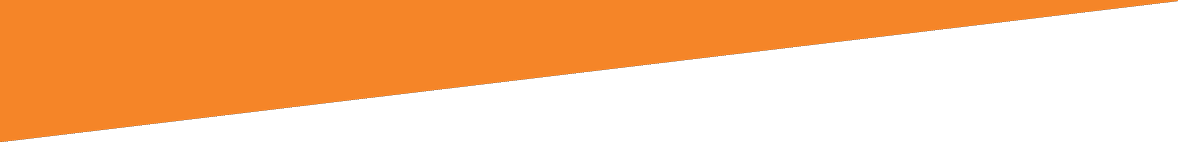
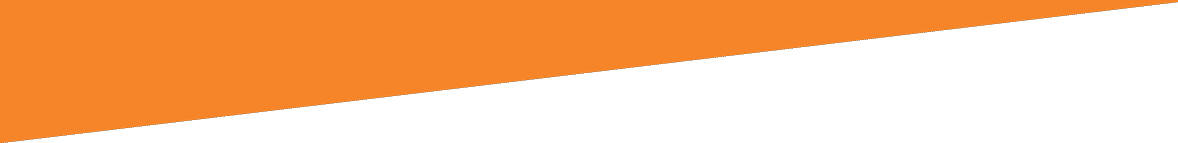
Automatically resizing footer, plus a few mobile related style tweaks

diff --git a/static/automatically-resize-footer.js b/static/automatically-resize-footer.js
@@ -1,0 +1,46 @@
+// Automatically resize the footer
+(function() {
+  // Resize interval variables
+  var resizeInterval;
+  var resizeIntervalCount = 0;
+  var savedFooterHeight = 0;
+
+  // Listen for `resize` event
+  $(window).on('resize', function () {
+    // Create new resize interval
+    clearInterval(resizeInterval);
+    resizeInterval = setInterval(resizeFooter, 32);
+
+    // Reset the interval count
+    resizeIntervalCount = 10;
+
+    // Resize
+    resizeFooter();
+  });
+
+  function resizeFooter() {
+    // If the counter reaches zero, Cancel and the clear interval
+    // Otherwise, just reduce the counter by one
+    if (resizeIntervalCount === 0) {
+      clearInterval(resizeInterval);
+      return;
+    } else {
+      resizeIntervalCount -= 1;
+    }
+
+    // Verify a change is needed
+    var footerHeight = $(window).height() - $('#header').height() - $('#content').height() - 97;
+    if (footerHeight === savedFooterHeight) {
+      return;
+    }
+
+    // Resize
+    $('#footer').height(footerHeight);
+    savedFooterHeight = footerHeight;
+  }
+
+  // Resize after the page finishes loading
+  $(function() {
+    $(window).trigger('resize');
+  });
+})();

diff --git a/templates/results.html b/templates/results.html
@@ -1,7 +1,6 @@
 {% extends "layout.html" %}
 
 {% block head %}
-  <script src="{{ url_for('bower.static', filename='jquery/dist/jquery.js') }}" type="text/javascript"></script>
   <script src="static/plugin-detect-0.6.3.js" type="text/javascript"></script>
   <script src="static/deployJava.js" type="text/javascript"></script>
   <script src="{{ url_for('bower.static', filename='jquery.flash/jquery.flash.js') }}" type="text/javascript"></script>
@@ -160,7 +159,7 @@
         install.innerHTML = "Install Privacy Badger<br><div>and Enable Do Not Track</div>";
         install.onclick = function(){
           if(browser == 'Chrome'){
-            event.preventDefault(); 
+            event.preventDefault();
             chrome.webstore.install(url, function(){}, function(){onChromeInstallFailure(url)});
           }
         }
@@ -266,7 +265,7 @@
             summary_sentence.innerHTML = "{% include '_summary_sentence_mixed.html' %}";
           }
           summary_sentence.innerHTML += download_links;
-          
+
           prepare_install_button();
         }
         document.getElementById('buttons').style.display = 'block';

diff --git a/static/style.new.css b/static/style.new.css
@@ -15,6 +15,12 @@ body {
   }
 }
 
+@media screen and (max-width: 479px), screen and (max-height: 479px) {
+  body {
+    background-position: top center;
+  }
+}
+
 a {
   color: #f58528;
 }
@@ -119,7 +125,7 @@ div#wrapper {
 #header .orange-slash {
   left: 0;
   position: absolute;
-  top: 175px;
+  top: 174px;
   width: 100%;
 }
 
@@ -191,10 +197,16 @@ iframe {
 
 #footer {
   background-color: rgba(255, 255, 255, 0.85);
-  min-height: 400px;
+  min-height: 200px;
   padding: 35px 0 0;
   position: relative;
   z-index: 9;
+}
+
+@media screen and (max-width: 479px) {
+  #footer {
+    min-height: 300px;
+  }
 }
 
 #footer .social-share-buttons {

diff --git a/templates/fingerprint_js.html b/templates/fingerprint_js.html
@@ -1,7 +1,6 @@
 {% extends "layout.html" %}
 
 {% block head %}
-  <script src="{{ url_for('bower.static', filename='jquery/dist/jquery.js') }}" type="text/javascript"></script>
   <script src="static/plugin-detect-0.6.3.js" type="text/javascript"></script>
   <script src="static/deployJava.js" type="text/javascript"></script>
   <script src="{{ url_for('bower.static', filename='jquery.flash/jquery.flash.js') }}" type="text/javascript"></script>

diff --git a/templates/layout.html b/templates/layout.html
@@ -9,6 +9,8 @@
     {% block meta %}
       <meta http-equiv="content-type" content="text/html; charset=UTF-8" />
     {% endblock %}
+    <script src="{{ url_for('bower.static', filename='jquery/dist/jquery.js') }}" type="text/javascript"></script>
+    <script src="/static/automatically-resize-footer.js" async></script>
     {% block head %}{% endblock %}
   </head>
   <body>

diff --git a/templates/front.html b/templates/front.html
@@ -3,7 +3,6 @@
 {% block meta %}{% endblock %}
 
 {% block head %}
-  <script src="{{ url_for('bower.static', filename='jquery/dist/jquery.js') }}" type="text/javascript"></script>
   <script src="static/front.js" type="text/javascript"></script>
 {% endblock %}
 
